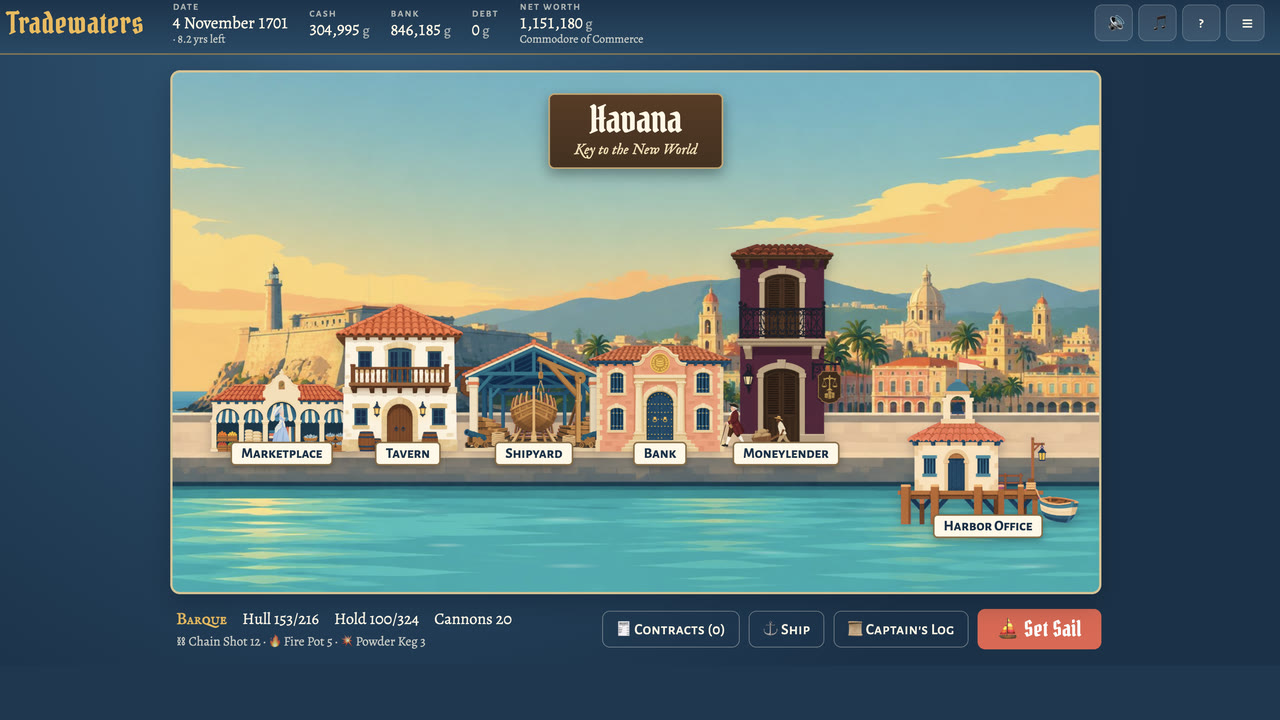
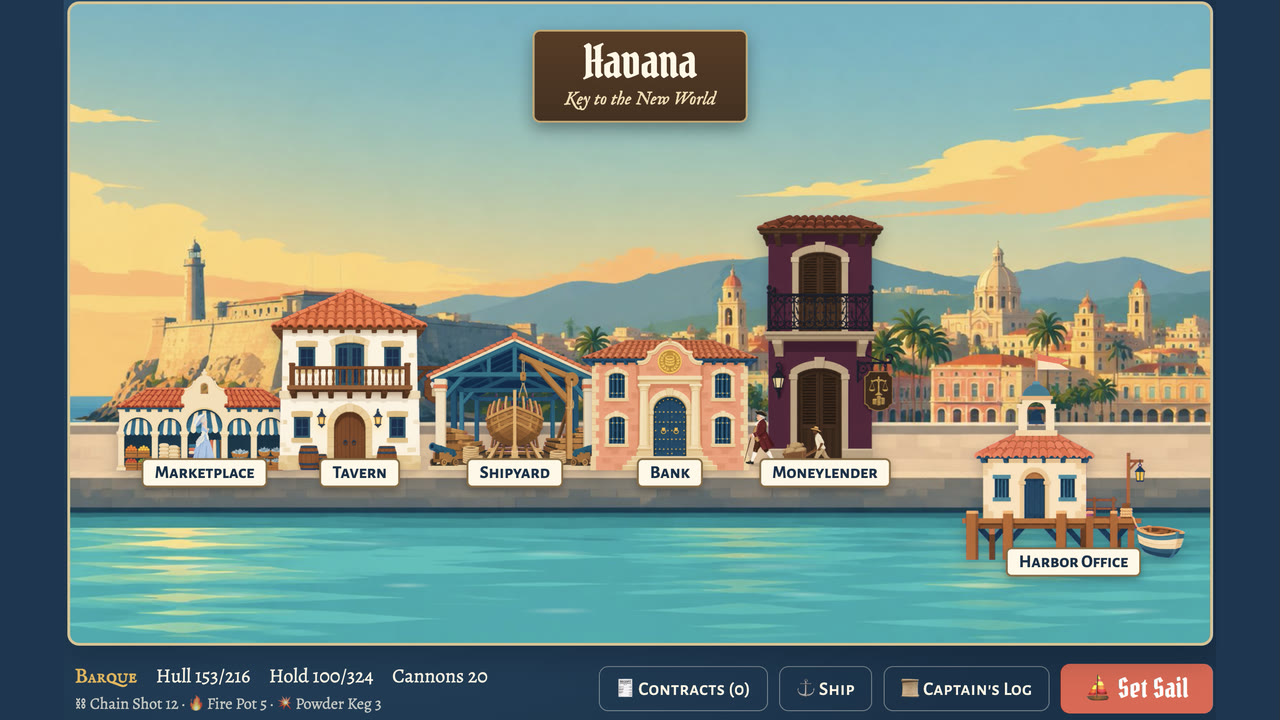
Tighter port and chart screenshots
Re-cropped by hand to focus on the city view and the sea chart.

diff --git a/index.html b/index.html
@@ -9,7 +9,7 @@
   <link rel="preconnect" href="https://fonts.googleapis.com">
   <link rel="preconnect" href="https://fonts.gstatic.com" crossorigin>
   <link rel="stylesheet" href="https://fonts.googleapis.com/css2?family=Pirata+One&family=IM+Fell+English+SC&family=IM+Fell+English:ital@0;1&family=Alegreya:ital,wght@0,400;0,700;1,400&family=Alegreya+Sans+SC:wght@500;700&family=Caveat:wght@500;700&display=swap">
-  <link rel="stylesheet" href="css/style.css?v=65">
+  <link rel="stylesheet" href="css/style.css?v=66">
 </head>
 <body>
   <div id="app">
@@ -19,18 +19,18 @@
   <div id="modal" hidden></div>
   <div id="toasts"></div>
 
-  <script src="js/data.js?v=65"></script>
-  <script src="js/economy.js?v=65"></script>
-  <script src="js/cast.js?v=65"></script>
-  <script src="js/characters.js?v=65"></script>
-  <script src="js/city.js?v=65"></script>
-  <script src="js/contracts.js?v=65"></script>
-  <script src="js/map.js?v=65"></script>
-  <script src="js/combat.js?v=65"></script>
-  <script src="js/audio.js?v=65"></script>
-  <script src="js/titlefx.js?v=65"></script>
-  <script src="js/folk.js?v=65"></script>
-  <script src="js/game.js?v=65"></script>
+  <script src="js/data.js?v=66"></script>
+  <script src="js/economy.js?v=66"></script>
+  <script src="js/cast.js?v=66"></script>
+  <script src="js/characters.js?v=66"></script>
+  <script src="js/city.js?v=66"></script>
+  <script src="js/contracts.js?v=66"></script>
+  <script src="js/map.js?v=66"></script>
+  <script src="js/combat.js?v=66"></script>
+  <script src="js/audio.js?v=66"></script>
+  <script src="js/titlefx.js?v=66"></script>
+  <script src="js/folk.js?v=66"></script>
+  <script src="js/game.js?v=66"></script>
   <script>TW.boot();</script>
 </body>
 </html>

diff --git a/js/game.js b/js/game.js
@@ -1616,7 +1616,7 @@
       ];
       modal(`<h2>How to Play</h2>${rows.map(([img, title, text]) => `
         <div class="help-row">
-          <button class="help-shot" title="Click to enlarge"><img src="assets/img/help/${img}.jpg?r=2" alt="${title}" loading="lazy"></button>
+          <button class="help-shot" title="Click to enlarge"><img src="assets/img/help/${img}.jpg?r=3" alt="${title}" loading="lazy"></button>
           <div><h3>${title}</h3><p>${text}</p></div>
         </div>`).join('')}`, [['Got it', null, 'big']], 'wide');
       $('#modal').querySelectorAll('.help-shot').forEach(b => {
